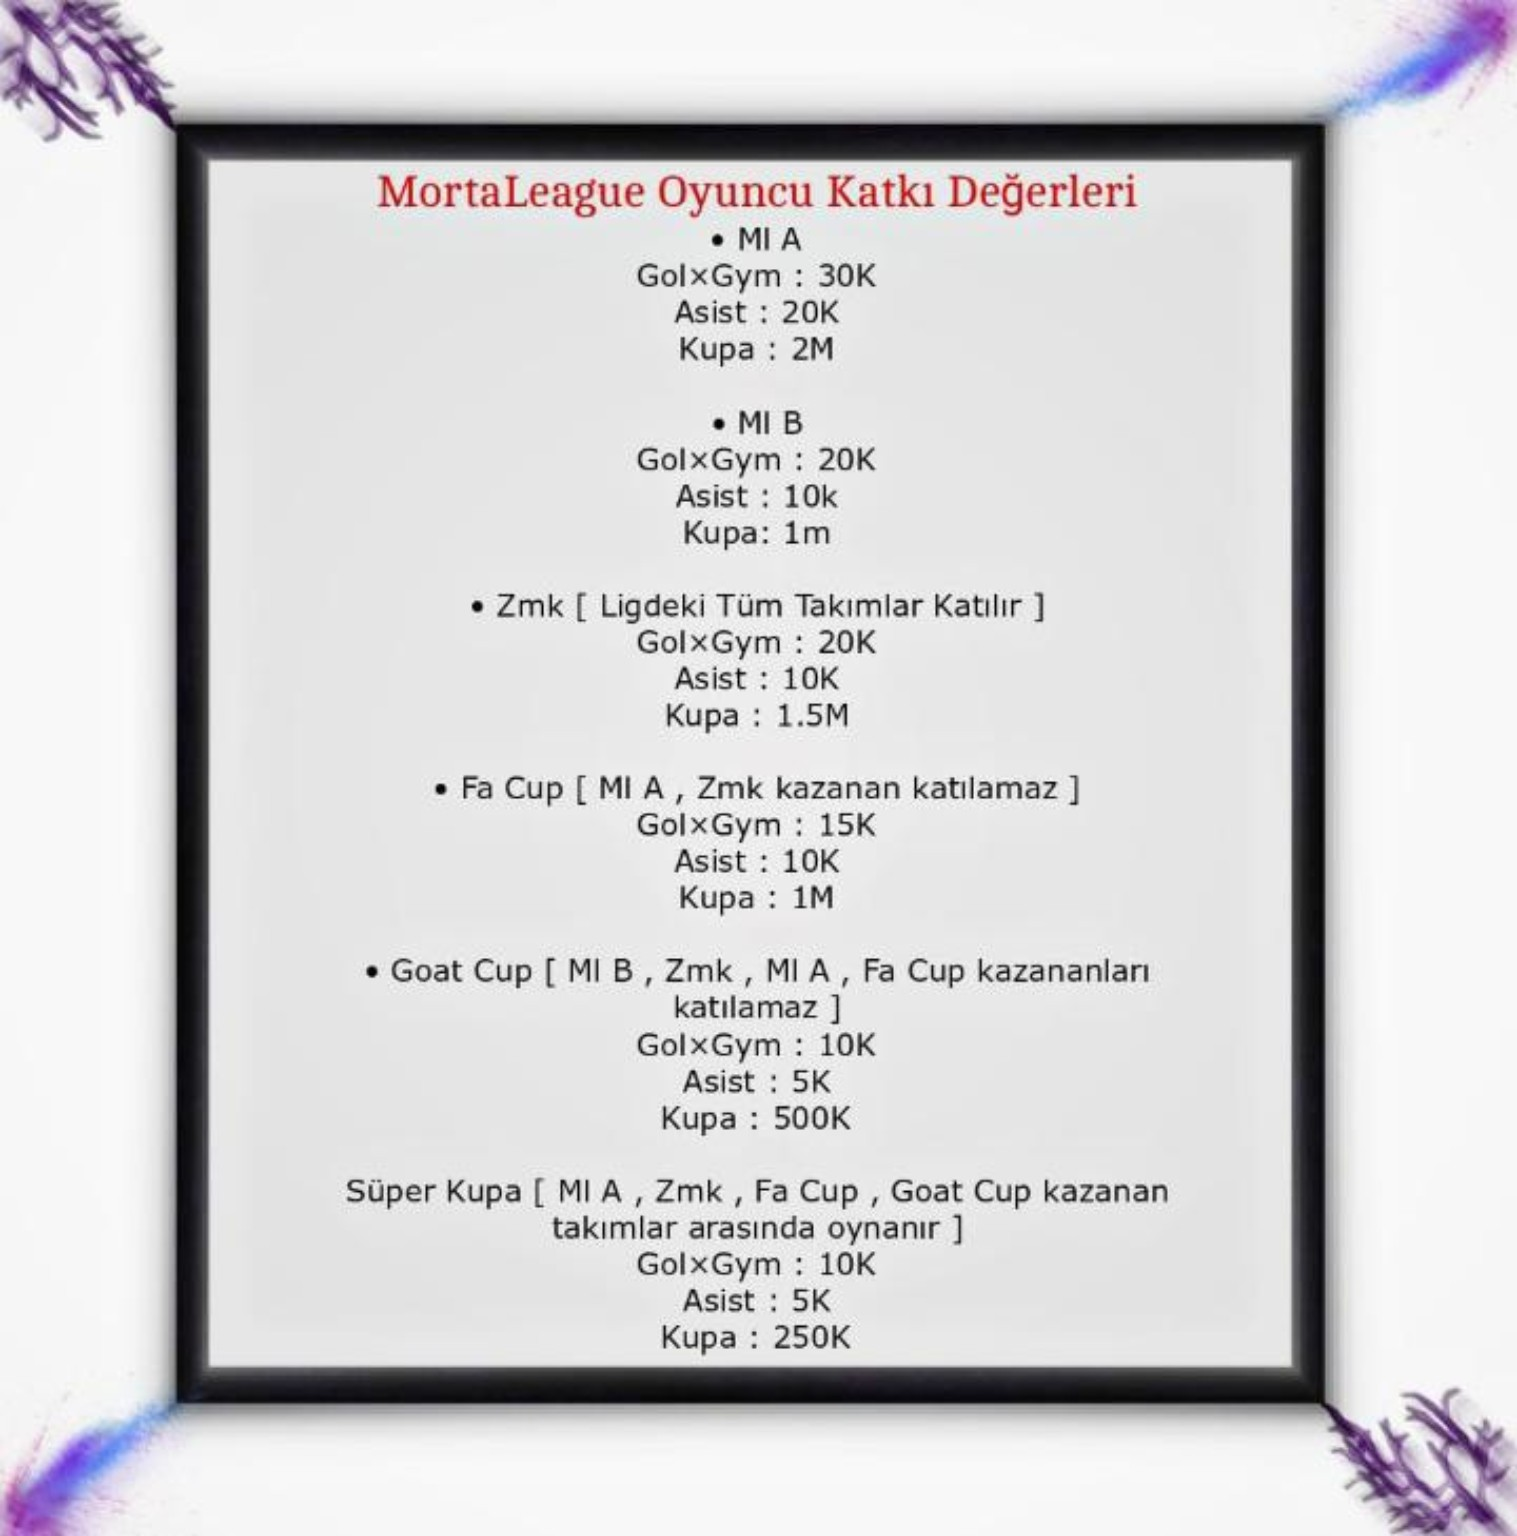
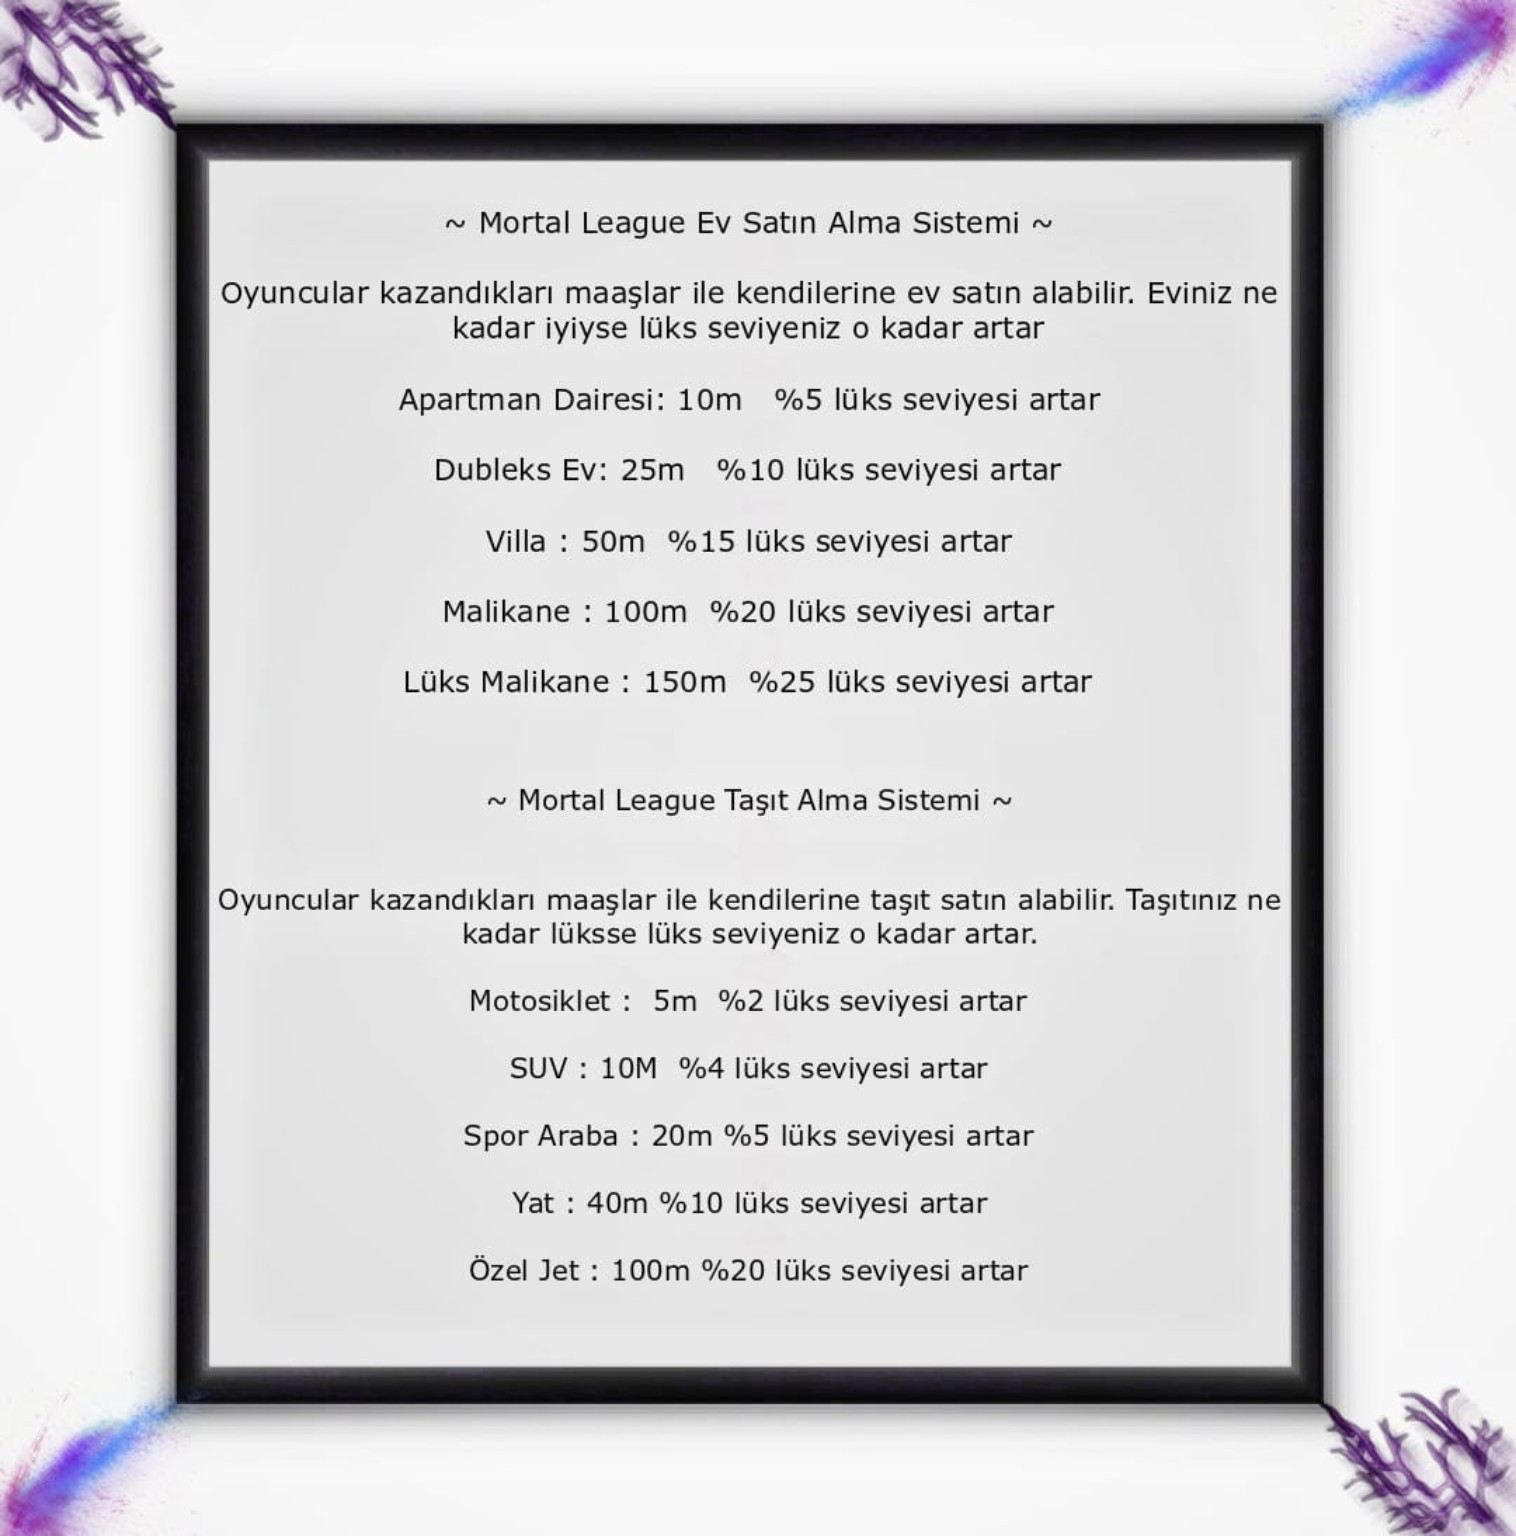
Add files via upload

Changed region(s): [[0.124, 0.0938, 0.8371, 0.875], [0.279, 0.4375, 0.403, 0.4688]]

diff --git a/index.html b/index.html
@@ -4,6 +4,9 @@
 <meta charset="UTF-8">
 <meta name="viewport" content="width=device-width,initial-scale=1.0">
 <meta name="theme-color" content="#0a0612">
+<meta name="referrer" content="strict-origin-when-cross-origin">
+<meta http-equiv="Content-Security-Policy" content="default-src 'self'; script-src 'self'; style-src 'self' 'unsafe-inline' https://fonts.googleapis.com; font-src https://fonts.gstatic.com; img-src 'self' data:; connect-src 'none'; object-src 'none'; base-uri 'self'; form-action 'none';">
+
 <title>MORTALLEAGUE — Karanlığın Ligi</title>
 <style>
 @import url('https://fonts.googleapis.com/css2?family=Inter:wght@400;500;600;700;800;900&family=Orbitron:wght@500;600;700;800;900&display=swap');
@@ -86,6 +89,49 @@ footer{border-top:1px solid var(--line);padding:28px 22px;color:#756a80;text-ali
 .contributionBreakdown small{display:block;color:#897c95;font-size:11px}
 .contributionBreakdown b{display:block;margin-top:5px;font-size:14px}
 @media(max-width:900px){.contributionCalc{grid-template-columns:1fr}.calcGrid{grid-template-columns:1fr}.calcGrid .field:first-child{grid-column:auto}}
+
+
+/* MortaLeague v1: performance, mobile and system search */
+.systemTools{display:flex;align-items:center;gap:10px;margin:0 0 16px}
+.systemSearch{flex:1;display:flex;align-items:center;gap:10px;min-height:46px;padding:0 14px;border:1px solid var(--line);border-radius:13px;background:rgba(255,255,255,.025)}
+.systemSearch span{font-size:21px;color:#a98ac6}
+.systemSearch input{width:100%;border:0;outline:0;background:transparent;color:#fff;font:500 14px Inter}
+.systemSearch input::placeholder{color:#776a83}
+.systemCount{white-space:nowrap;padding:9px 12px;border-radius:999px;border:1px solid var(--line);color:#a998b8;font-size:11px}
+.systemNoResults{display:none;padding:22px;border:1px dashed var(--line);border-radius:15px;color:#a99bbd;text-align:center;margin-bottom:12px}
+.systemRule.isHidden{display:none}
+.systemRule.searchHit h3{color:#fff}
+@media (max-width:900px){
+  .nav{height:68px;padding:0 14px}
+  .navlinks{display:none}
+  .navCta{padding:10px 13px;font-size:12px}
+  main{padding:90px 15px 55px}
+  .hero{min-height:590px;grid-template-columns:1fr;gap:10px;text-align:center}
+  .hero p{margin-left:auto;margin-right:auto;font-size:15px}
+  .heroActions{justify-content:center}
+  .heroVisual{min-height:320px;transform:scale(.78)}
+  .section{padding:48px 0}
+  .sectionHead{align-items:flex-start;flex-direction:column}
+  .sectionHead h2{font-size:24px}
+  .grid{grid-template-columns:1fr 1fr}
+  .rules{grid-template-columns:1fr}
+  .panel{padding:17px}
+  .systemTools{align-items:stretch;flex-direction:column}
+  .systemCount{text-align:center}
+}
+@media (max-width:520px){
+  .grid{grid-template-columns:1fr}
+  .logo small{display:none}
+  .logo{letter-spacing:1px}
+  h1{letter-spacing:-2px;font-size:clamp(40px,14vw,66px)}
+  .heroVisual{transform:scale(.64);margin-top:-35px}
+  .calcGrid{grid-template-columns:1fr}
+  .contributionBreakdown{grid-template-columns:1fr}
+}
+/* Respect reduced-motion preferences for accessibility and lower CPU use. */
+@media (prefers-reduced-motion:reduce){
+  *,*::before,*::after{scroll-behavior:auto!important;animation-duration:.001ms!important;animation-iteration-count:1!important;transition-duration:.001ms!important}
+}
 
 </style>
 
@@ -213,7 +259,17 @@ footer{border-top:1px solid var(--line);padding:28px 22px;color:#756a80;text-ali
 
 <section class="section" id="systems">
 <div class="sectionHead"><div><h2>SİSTEMLER</h2><p>MortaLeague için hazırlanan sistemler ve kurallar.</p></div><span class="badge">16 SİSTEM</span></div>
+
+<div class="systemTools">
+  <label class="systemSearch" aria-label="Sistemlerde ara">
+    <span>⌕</span>
+    <input id="systemSearch" type="search" autocomplete="off" placeholder="Sistemlerde ara...">
+  </label>
+  <span class="systemCount" id="systemCount">16 sistem</span>
+</div>
+
 <div class="systemsIntro"><span>◈</span><div><strong>TÜM SİSTEMLER</strong><small>Gönderdiğin metinler, tekrarlar ayıklanarak ve yeni ek bilgiler ilgili başlıkların devamına işlenerek burada yer alıyor.</small></div></div>
+<div class="systemNoResults" id="systemNoResults">Aramanla eşleşen sistem bulunamadı.</div>
 <div class="systemLibrary">
 <article class="systemRule"><h3>MortaLeague Yayın Geliri Sistemi</h3><div class="ruleText">Takımlar sezon içerisinde gösterdiği performansa para kazanırlar. Bu paralar devrede veya sezon sonunda eklenebilir.
 

diff --git a/script.js b/script.js
@@ -2,7 +2,12 @@ const $=s=>document.querySelector(s), $$=s=>[...document.querySelectorAll(s)];
 
 function makeParticles(){
   const box=$("#particles");
-  for(let i=0;i<42;i++){
+  if(!box) return;
+  const reduce=window.matchMedia("(prefers-reduced-motion: reduce)").matches;
+  const mobile=window.matchMedia("(max-width: 700px)").matches;
+  const count=reduce ? 0 : (mobile ? 18 : 30);
+  const frag=document.createDocumentFragment();
+  for(let i=0;i<count;i++){
     const o=document.createElement("i"); o.className="orb";
     const size=Math.random()*4+2;
     o.style.width=o.style.height=size+"px";
@@ -10,8 +15,9 @@ function makeParticles(){
     o.style.animationDuration=(Math.random()*18+12)+"s";
     o.style.animationDelay=(-Math.random()*25)+"s";
     o.style.opacity=(Math.random()*.45+.12);
-    box.appendChild(o);
+    frag.appendChild(o);
   }
+  box.appendChild(frag);
 }
 makeParticles();
 
@@ -47,6 +53,28 @@ $$("[data-open]").forEach(b=>b.addEventListener("click",()=>openModal(b.dataset.
 $$("[data-close]").forEach(b=>b.addEventListener("click",closeModals));
 $$(".modal").forEach(m=>m.addEventListener("click",e=>{if(e.target===m)closeModals()}));
 document.addEventListener("keydown",e=>{if(e.key==="Escape")closeModals()});
+
+
+// Sistem arama: tüm başlıkları filtreler, içerikleri değiştirmez.
+const systemSearch = $("#systemSearch");
+const systemRules = $$(".systemRule");
+const systemCount = $("#systemCount");
+const systemNoResults = $("#systemNoResults");
+
+function filterSystems(){
+  const q = (systemSearch?.value || "").trim().toLocaleLowerCase("tr-TR");
+  let visible = 0;
+  systemRules.forEach(card=>{
+    const text = card.textContent.toLocaleLowerCase("tr-TR");
+    const hit = !q || text.includes(q);
+    card.classList.toggle("isHidden", !hit);
+    card.classList.toggle("searchHit", !!q && hit);
+    if(hit) visible++;
+  });
+  if(systemCount) systemCount.textContent = q ? `${visible} eşleşme` : `${systemRules.length} sistem`;
+  if(systemNoResults) systemNoResults.style.display = visible ? "none" : "block";
+}
+systemSearch?.addEventListener("input", filterSystems);
 
 const contributionRates = {
   mla: {goal: 30000, assist: 20000, cup: 2000000},
@@ -112,3 +140,6 @@ window.addEventListener("scroll",()=>{
     }
   });
 });
+
+// Sessiz güvenlik/kararlılık koruması: tek bir UI hatası tüm sayfayı kilitlemesin.
+window.addEventListener("error",()=>{}, {passive:true});
